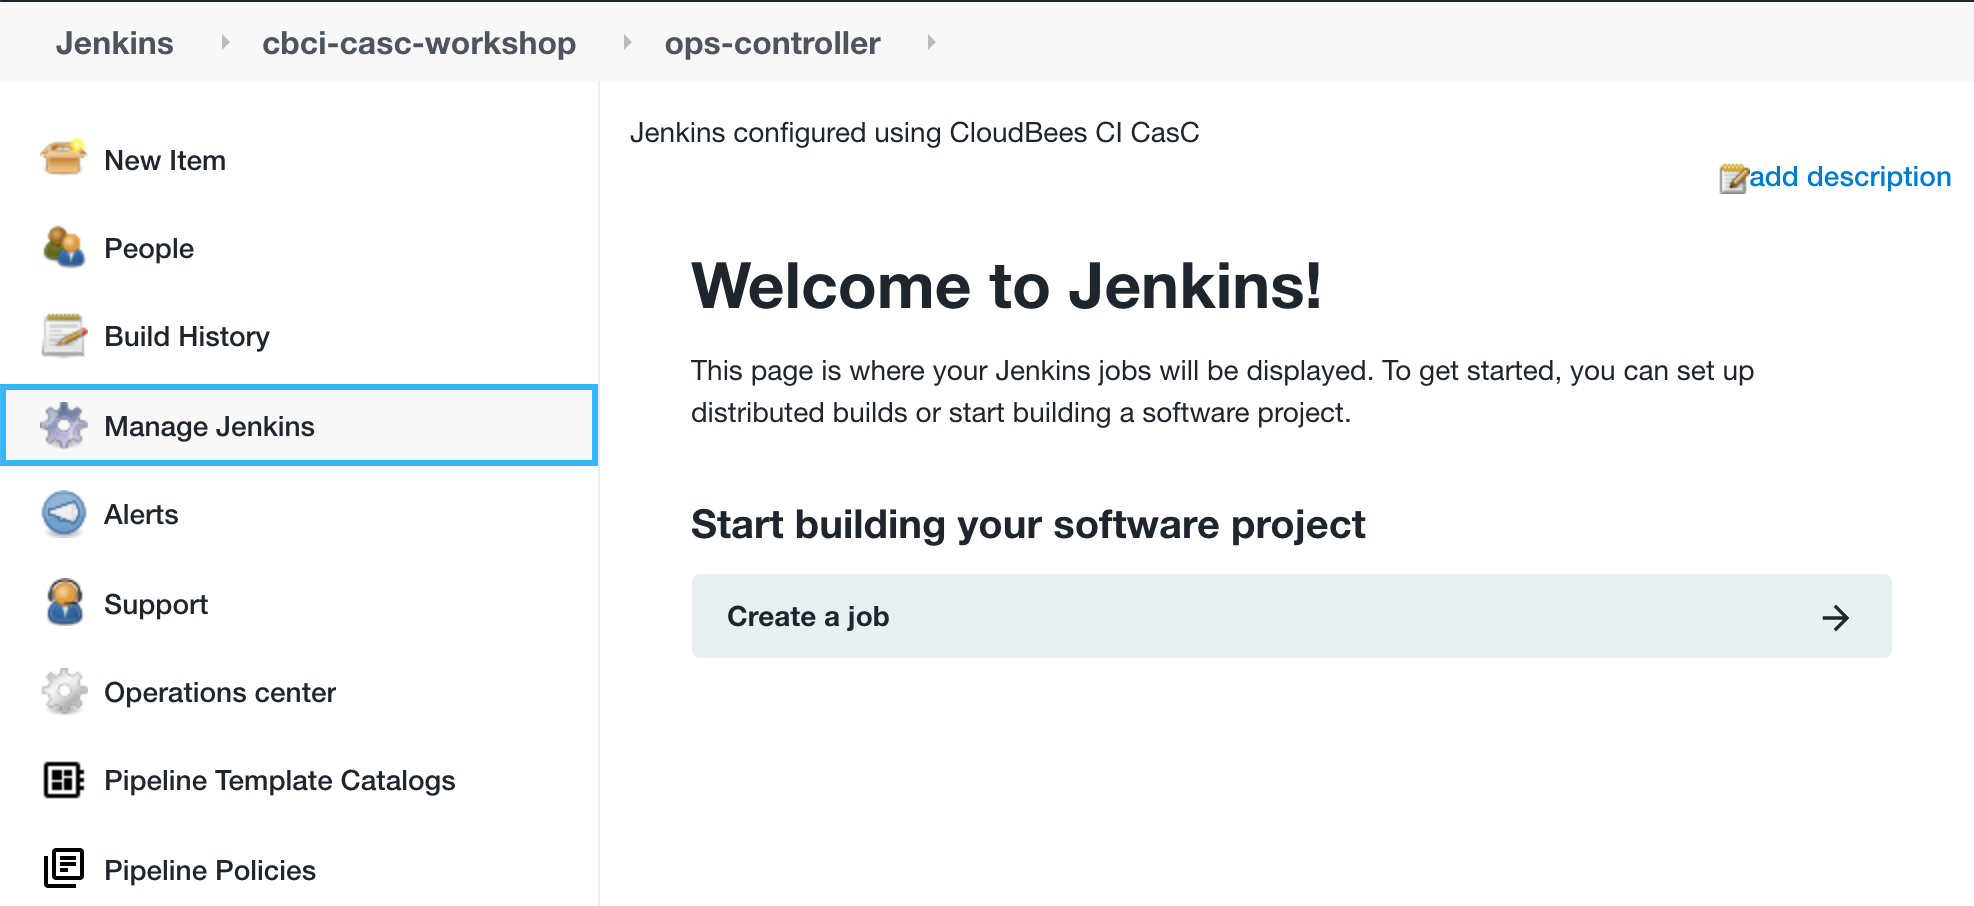
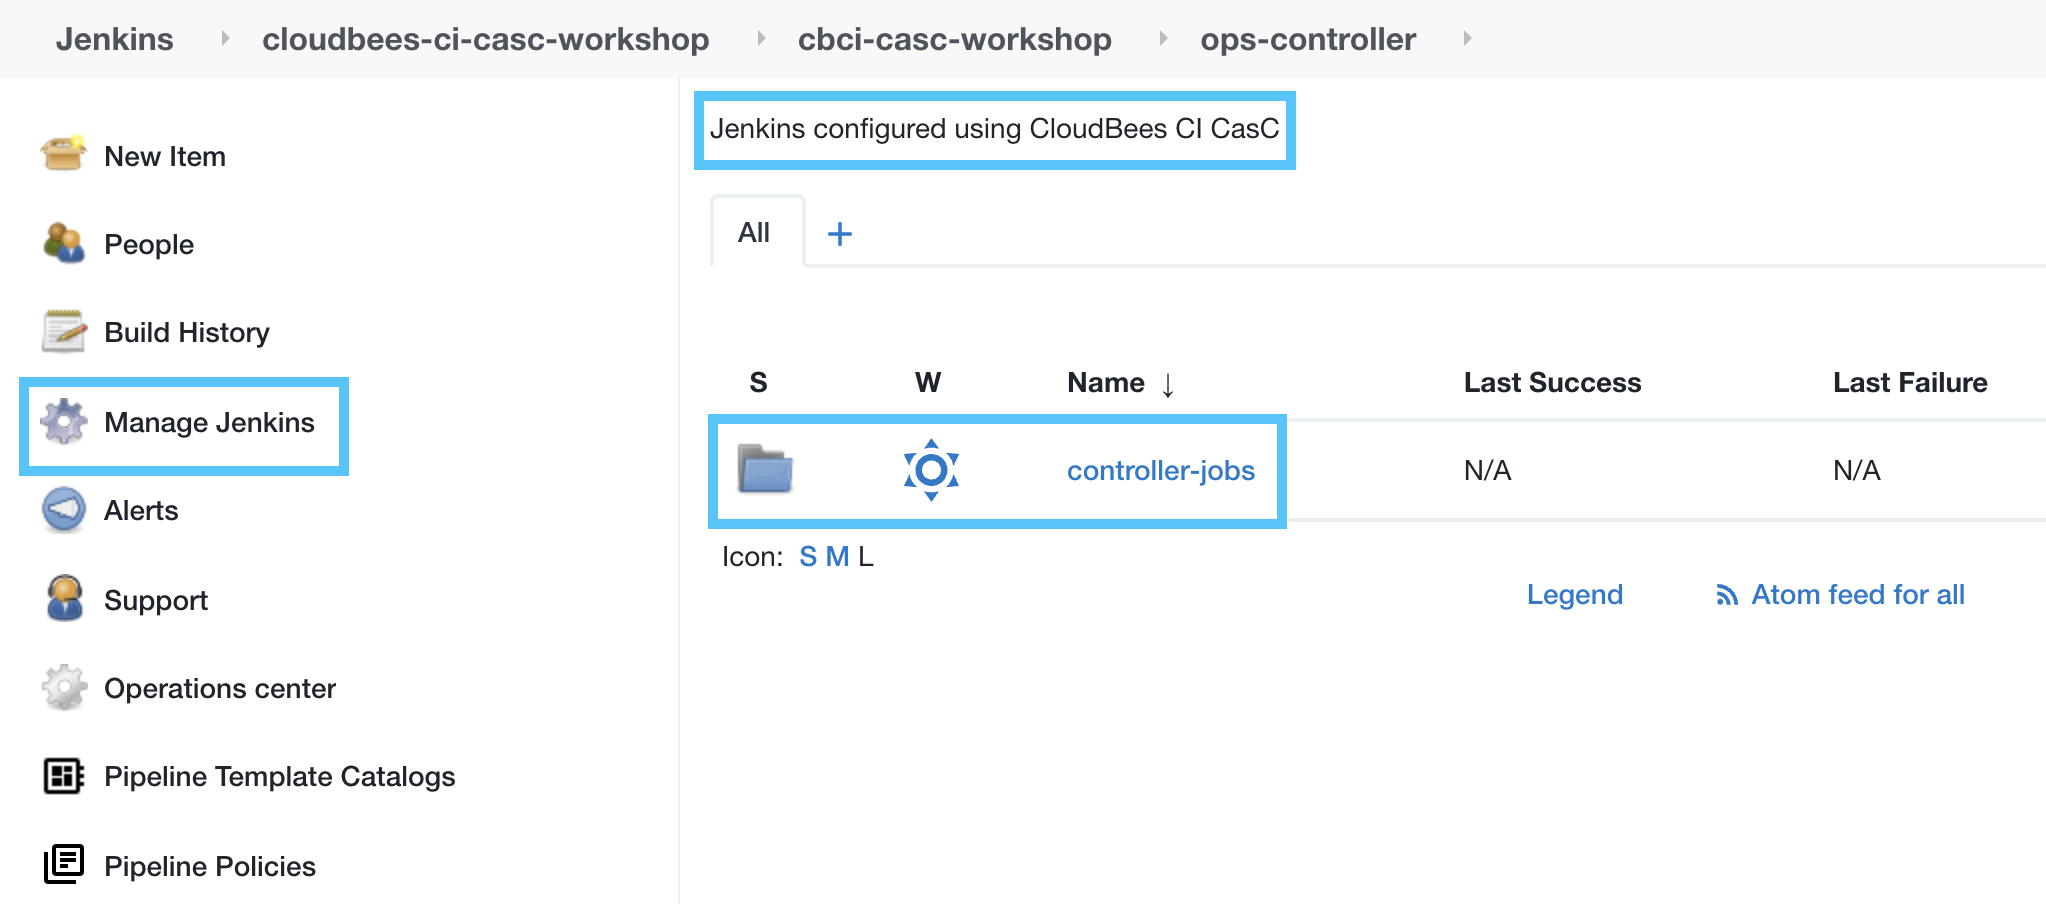
adding items

diff --git a/labs/cloudbees-ci-casc/content/labs/bundle-composition.md b/labs/cloudbees-ci-casc/content/labs/bundle-composition.md
@@ -135,7 +135,7 @@ plugins:
 - id: workflow-cps-checkpoint
 # non-cap plugins
 ```
-6. Finally, return to the top level of your `ops-controller` repository and click on the `items.yaml` file.
+6. Finally, return to the top level of your `ops-controller` repository and click on the `items.yaml` file. The name of this file must match the file name listed under `items` in the `bundle.yaml` file. Its contents will match the following (except for the `REPLACE_GITHUB_ORG` placeholders):
 
 ```yml
 removeStrategy:
@@ -197,6 +197,7 @@ items:
 As you can see from the composition overview above, the YAML in the different configuration files can be somewhat complicated, and that is only with a few of the bundle file types and a fairly simple set of configurations. Luckily, CloudBees CI Configuration as Code (CasC) for Controllers supports an export capability that allows you to export the current configuration from an existing controller. In this lab you will make configurations changes on your Ops controller and then use the export feature to copy new or updated configuration to the files in the Ops controller branch of your `ops-controller` repository.
 
 1. Navigate to the top level of your Ops controller - it will be in the folder with the same name as your workshop GitHub Organization name (lower-cased).
+2. You will see a folder named `controller-jobs` and within that folder there will be a GitHub Organization job named `cbci-casc-automation` which we will take a deeper look at in the next lab.
 2. At the top level of your Ops controller, click on the **Mange Jenkins** link in the left menu. ![Manage Jenkins link](manage-jenkins-link.png?width=50pc) 
 3. On the **Manage Jenkins** page click on **Manage Plugins** under the **System Configuration** section. ![Manage Plugins link](manage-plugins-link.png?width=50pc) 
 4. On the **Plugin Manager** screen, click on the **Available** tab and enter ***CloudBees Restrict*** into the search box. Then check the **Install** checkbox for the **CloudBees Restricted Credentials Plugin** and then click the the **Install without restart** button. ![Search for Plugin](search-plugin.png?width=50pc) 
@@ -253,23 +254,11 @@ plugins:
 - id: cloudbees-restricted-credentials
 ```
 {{% /expand%}}
-
-14. Navigate back to the top level of your Ops controller, click on **Create a job** link.  ![Create a job](create-job-link.png?width=50pc) 
-15. On the item creation screen, enter ***controller-jobs*** as the name, select **Folder** as the type and then click the **OK** button. ![Create folder](create-folder.png?width=50pc) 
-16. Scroll to the bottom of the folder configuration and click on **Restrict the kind of children in this folder** - a [CloudBees Folders Plus](https://docs.cloudbees.com/docs/cloudbees-core/latest/cloud-secure-guide/folders-plus) feature - and then select **Pipeline**, **Multibranch Pipeline** and **Organization Folder**; and then hit the **Save** button. ![Configure folder](configure-folder.png?width=50pc) 
-17. Navigate back to the top-level of your Ops controller and you should see the new **controller-jobs** folder. Click on the **Manage Jenkins** link in the left menu. ![Folder created](folder-created.png?width=50pc) 
-18. Next, On the **Manage Jenkins** page click on **CloudBees Configuration as Code export and update** under the **System Configuration** section.
-19. On the **CloudBees Configuration as Code export and update** page of your Ops controller, instead of clicking the *visualize* link, click the *Copy content* link for the `items.yaml` **Filename**. ![Items copy content link](items-copy-content-link.png?width=50pc) 
-20. Navigate to the top level of your copy of the `ops-controller` repository in your workshop GitHub Organization and click on the **Add file** button and then select **Create new file**. ![Create new file in GitHub](github-create-new-file.png?width=50pc)
-21. On the next screen, name the new file `items.yaml`, paste the contents from the `items.yaml` export (same as above).
-22. Add the `- jenkins.branch.OrganizationFolder` type as shown above and then commit directly to the `main` branch. ![Commit items.yaml](commit-items.png?width=50pc)
-23. In addition to updating the `plugins.yaml`, we also added two new files: `plugin-catalog.yaml` and `items.yaml`. However, those files are not listed in the `bundles.yaml`. In order to include those files in the configuration bundle we need to add them to the `bundle.yaml` file, so click on the `bundles.yaml` file and then click on the ***Edit this file*** pencil button.
+23. In addition to updating the `plugins.yaml`, we also added the`plugin-catalog.yaml` file. But it is not listed in the `bundles.yaml`. In order to have that file used by configuration bundle on our controller, we need to add it to the `bundle.yaml` file, so click on the `bundles.yaml` file and then click on the ***Edit this file*** pencil button.
 24. In the GitHub file editor for the `bundle.yaml` file, update the `version` field to **2** and add the following configuration to the end of the `bundle.yaml` file:
 ```yaml
 catalog:
   - "plugin-catalog.yaml"
-items:
-  - "items.yaml"
 ```
 
 {{% notice note %}}
@@ -277,6 +266,15 @@ In previous versions of CloudBees CI Configuration as Code (CasC) for Controller
 {{% /notice %}}
 
 25. Commit the `bundle.yaml` file directly to the `main` branch of your `ops-controller` repository. ![Commit bundle.yaml](commit-bundle.png?width=50pc)
+14. Navigate back to the top level of your Ops controller, click on the **controller-jobs** folder.  ![Controller jobs](controller-jobs-folder.png?width=50pc) 
+15. On the **controller-jobs** folder click on the **Configure** left menu item. ![Configure folder](configure-folder-link.png?width=50pc) 
+16. Scroll to the bottom of the folder configuration and click on **Restrict the kind of children in this folder** - a [CloudBees Folders Plus](https://docs.cloudbees.com/docs/cloudbees-core/latest/cloud-secure-guide/folders-plus) feature - and then select **Pipeline**, **Multibranch Pipeline** and **Organization Folder** so only Jenkins Pipeline type jobs are allowed to be created in the folder; and then hit the **Save** button. ![Configure folder](configure-folder.png?width=50pc) 
+17. Navigate back to the top-level of your Ops controller and you should see the new **controller-jobs** folder. Click on the **Manage Jenkins** link in the left menu. ![Folder created](folder-created.png?width=50pc) 
+18. Next, On the **Manage Jenkins** page click on **CloudBees Configuration as Code export and update** under the **System Configuration** section.
+19. On the **CloudBees Configuration as Code export and update** page of your Ops controller, instead of clicking the *visualize* link, click the *Copy content* link for the `items.yaml` **Filename**. ![Items copy content link](items-copy-content-link.png?width=50pc) 
+20. Navigate to the top level of your copy of the `ops-controller` repository in your workshop GitHub Organization and click on the **Add file** button and then select **Create new file**. ![Create new file in GitHub](github-create-new-file.png?width=50pc)
+21. On the next screen, name the new file `items.yaml`, paste the contents from the `items.yaml` export (same as above).
+22. Add the `- jenkins.branch.OrganizationFolder` type as shown above and then commit directly to the `main` branch. ![Commit items.yaml](commit-items.png?width=50pc)
 26. The contents of your copy of the `ops-controller` repository in your workshop GitHub Organization should match the following screenshot: ![Repository contents](repository-contents.png?width=50pc)
 27. Finally, navigate back to the top level of your Ops controller, click on the **controller-jobs** folder and then click **Delete Folder** in the left menu. When the updated configuration bundle is applied to your Ops controller it will add the `controller-jobs` folder back. ![Delete folder](delete-folder.png?width=50pc)
 
